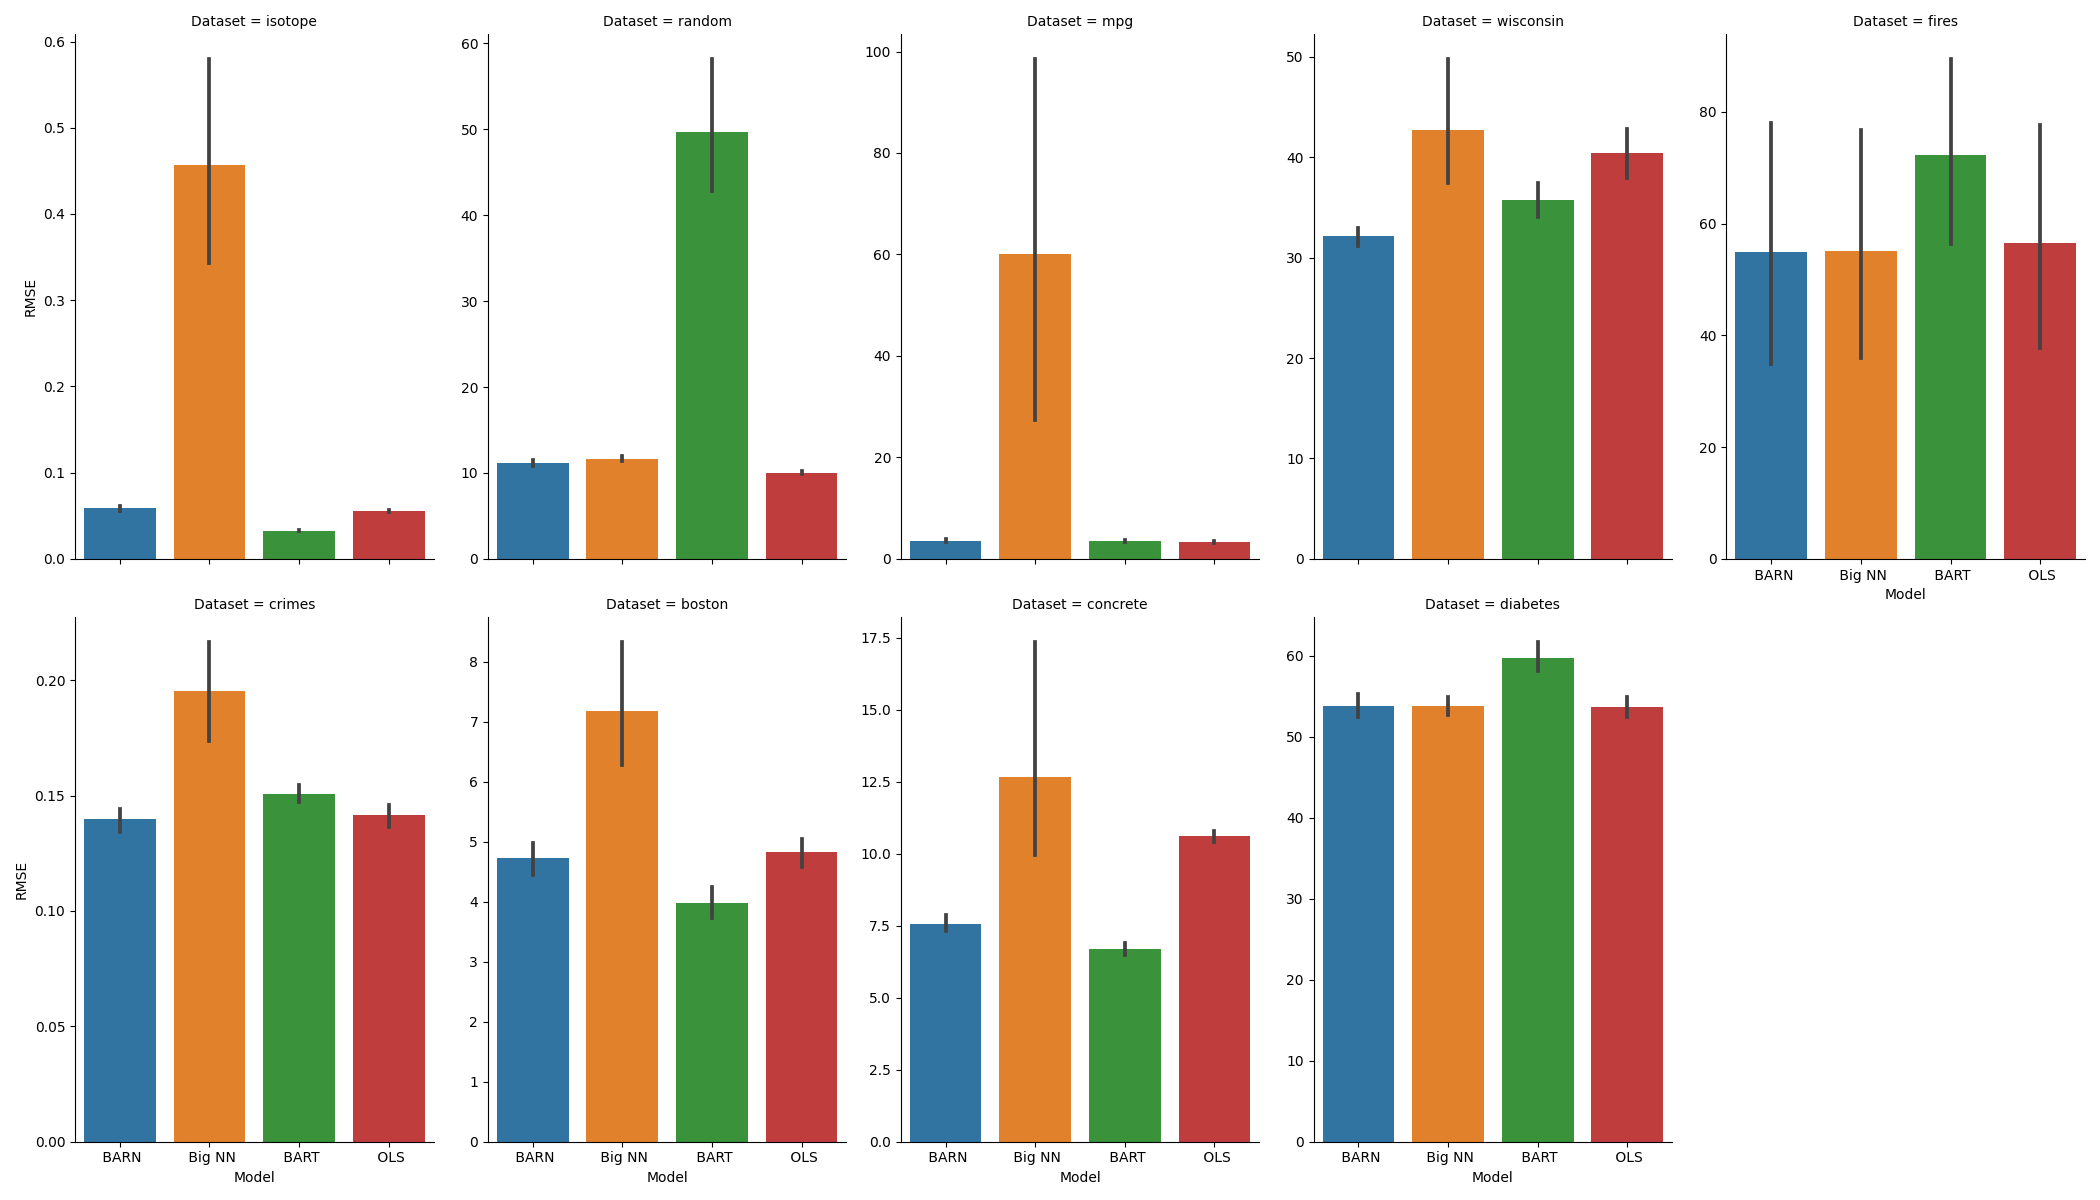
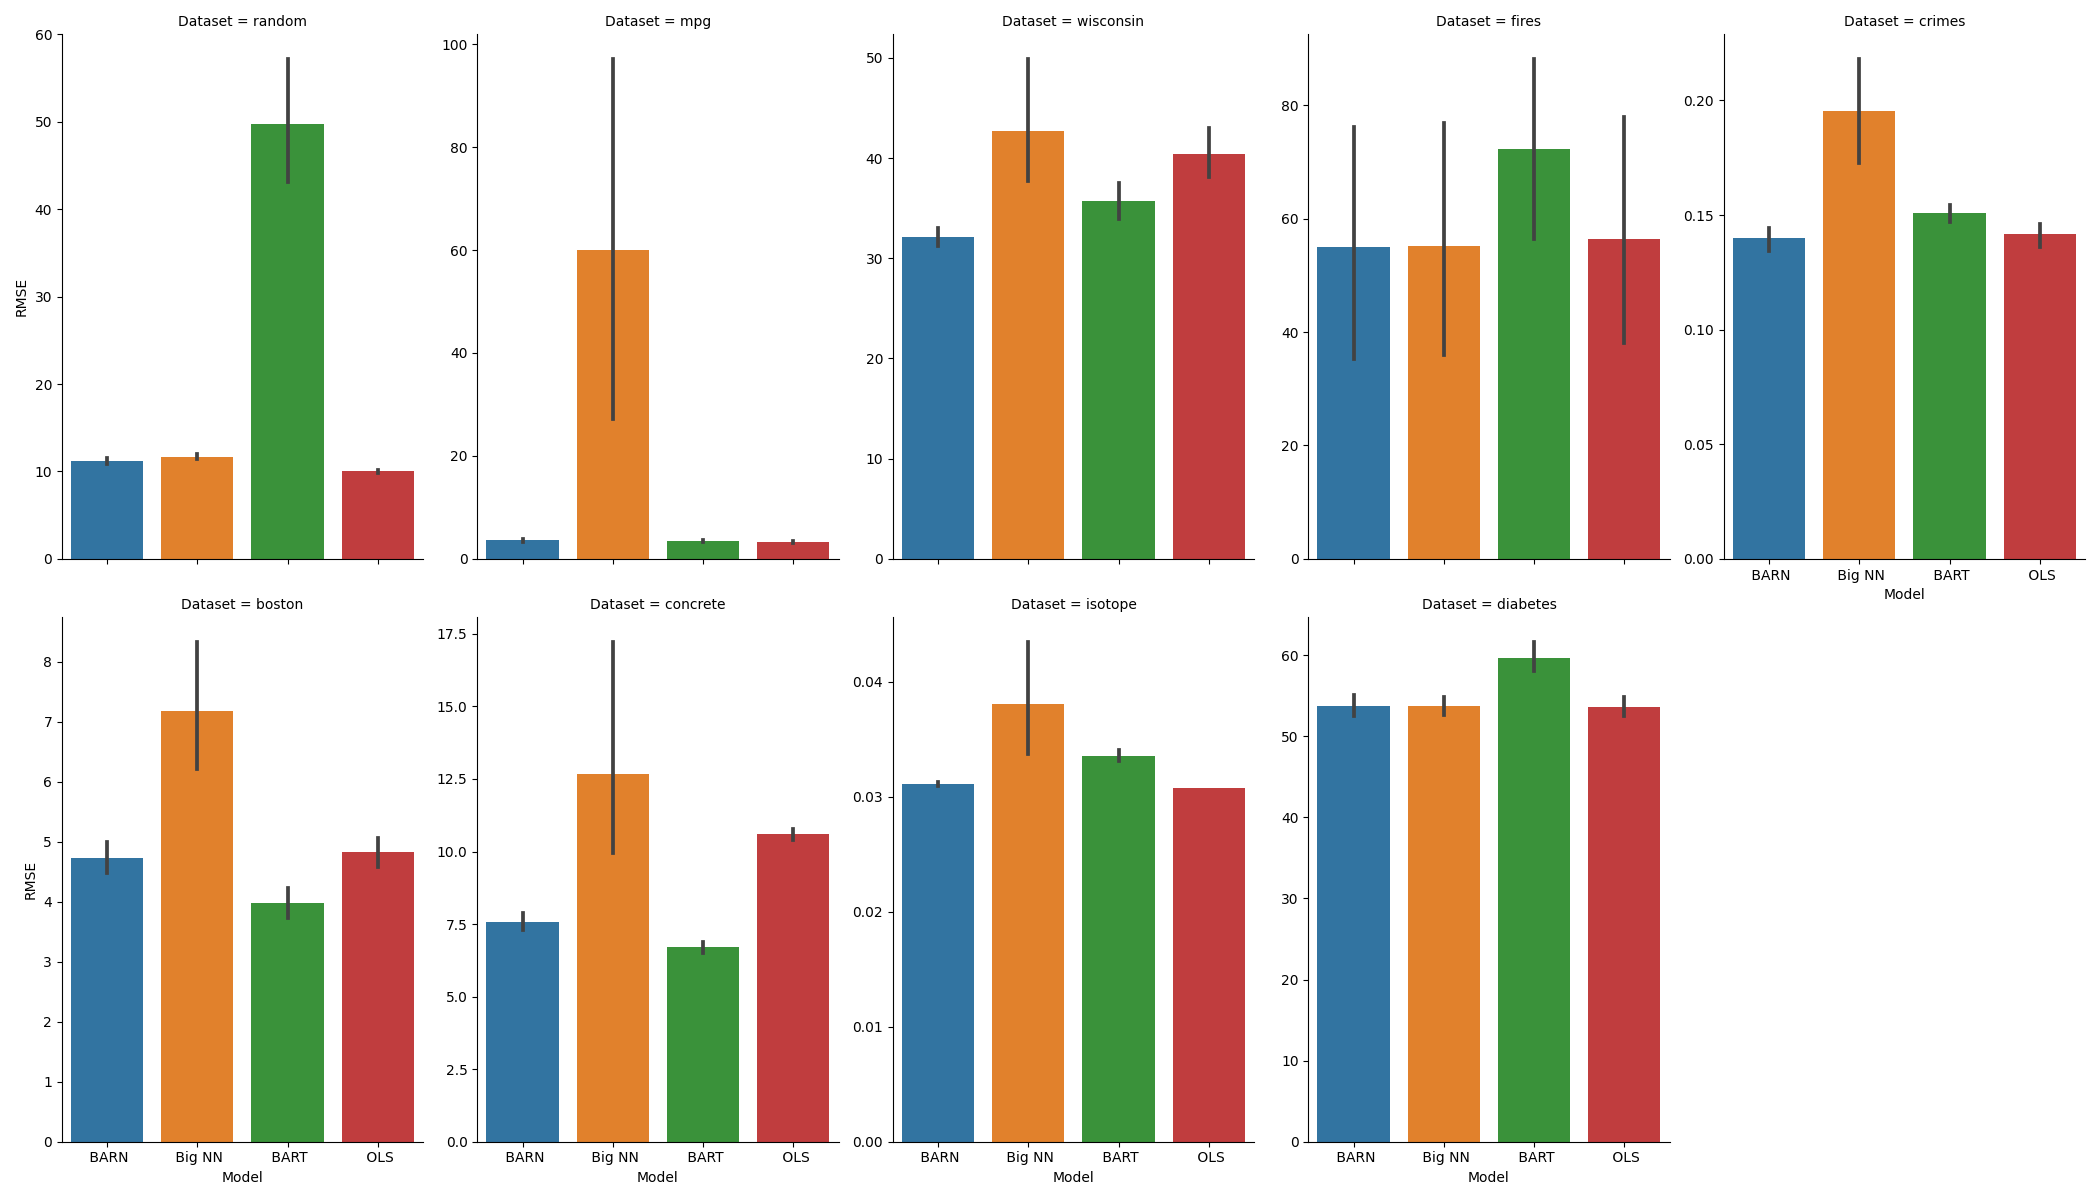
Update presentation and fix results graphic

diff --git a/paper/vanboxel_BARN_pres.md b/paper/vanboxel_BARN_pres.md
@@ -290,6 +290,7 @@ $$ P(R_k |X, M_k) = \prod_{i\in  valid} \frac{1}{\sigma \sqrt{\pi}} e^{-\frac{1}
 | crimes | 101 | 1994 |
 | diabetes | 10 | 442 |
 | fires | 10 | 517 |
+| isotope | 1 | 700 |
 | mpg | 7 | 398 |
 | random | 10 | 1000 |
 | wisconsin | 32 | 194 |
@@ -317,25 +318,26 @@ $$ P(R_k |X, M_k) = \prod_{i\in  valid} \frac{1}{\sigma \sqrt{\pi}} e^{-\frac{1}
 ## RMSE Accuracy
 
 ::: columns
-:::: {.column width=30%}
+:::: {.column width=25%}
 * Compare to BART and equivalent size single big NN (i.e. $m = \sum m_k$)
 * Compute $\bar{RMSE}(\sigma)$ over 13 independent runs
 * BARN more stable and often more accurate
 
 ::::
 
-:::: {.column width=70%}
+:::: {.column width=75%}
 
-| Dataset   |     BARN |    Big NN |      BART |
-|:----------|---------:|----------:|----------:|
-| boston    | 4.64 ( 0.447)|  8.11 ( 4.958)|  *4.10* ( 0.556)|
-| concrete  | 7.32 ( 0.537)| 12.68 ( 7.990)|  *6.82* ( 0.436)|
-| crimes    | *0.14* ( 0.009)|  0.18 ( 0.041)|  0.15 ( 0.008)|
-| diabetes  |54.07 ( 2.539)| *53.74* ( 2.564)| 58.72 ( 2.878)|
-| fires     |*58.25* (38.845)| 58.35 (39.316)| 77.17 (30.878)|
-| mpg       | *3.43* ( 0.399)| 71.88 (52.497)|  3.44 ( 0.450)|
-| random    |*11.46* ( 0.552)| 11.78 ( 0.639)| 55.41 (14.865)|
-| wisconsin |*33.48* ( 2.497)| 45.15 (10.365)| 35.76 ( 3.208)|
+| Dataset   |     BARN |    Big NN |      BART | OLS |
+|:----------|---------:|----------:|----------:|----:|
+| boston    | 4.64 ( 0.45)|  8.11 ( 4.96)|  *4.10* ( 0.56)|  4.83 (0.45) |
+| concrete  | 7.32 ( 0.54)| 12.68 ( 7.99)|  *6.82* ( 0.44)| 10.60 (0.36) |
+| crimes    | *0.14* ( 0.01)|  0.18 ( 0.04)|  0.15 ( 0.01)| 0.14(0.01) |
+| diabetes  |54.07 ( 2.54)| 53.74 ( 2.56)| 58.72 ( 2.88)| *53.67* (2.36) |
+| fires     | *55.01* (39.88)| 55.18 (39.90) | 72.28 (32.11) | 56.46 (38.68)|
+| isotope   | 0.03  (<0.01)| 0.04 (0.01) |  0.03 (<0.01 ) | *0.03* (<0.01)|
+| mpg       | 3.43 ( 0.40)| 71.88 (52.50)|  3.44 ( 0.45)| *3.33* (0.29) |
+| random    |*11.46* ( 0.55)| 11.78 ( 0.64)| 55.41 (14.87)| *10.02* (0.34) |
+| wisconsin |*33.48* ( 2.50)| 45.15 (10.37)| 35.76 ( 3.21)| 40.38(4.77) |
 
 ::::
 
@@ -344,7 +346,24 @@ $$ P(R_k |X, M_k) = \prod_{i\in  valid} \frac{1}{\sigma \sqrt{\pi}} e^{-\frac{1}
 
 ## Graphic Accuracy
 
-![BARN results always better than or comparable previous methods](pres_results.png){ height=80% }
+![BARN results always better than or comparable to previous methods](pres_results.png){ height=80% }
+
+## Isotope Dataset Comparison
+
+::: columns
+:::: {.column width=30%}
+* Predict carbonate clumped isotope thermometry, $\Delta_{47}$ from temperature
+* Recent study [@roman2022bayclump] suggests shows Bayesian Least Squares is effective
+* BARN is comparable to these methods, and better than a single neural network and BART
+
+::::
+
+:::: {.column width=70%}
+![BARN is competitive with other methods for modeling D47 data](iso_results.png){ height=80% }
+::::
+
+:::
+
 
 # Discussion
 
@@ -372,5 +391,7 @@ $$ P(R_k |X, M_k) = \prod_{i\in  valid} \frac{1}{\sigma \sqrt{\pi}} e^{-\frac{1}
 * Helen Zhang - introduction to BART and related methods
 
 ## Bibliography
+
+\footnotesize
 
 [//]: # (Fixing highlighting_)
